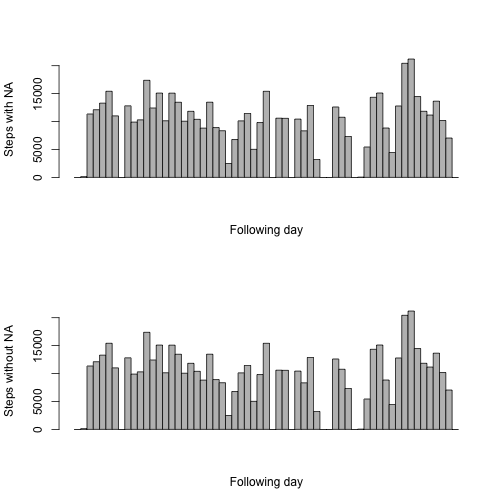
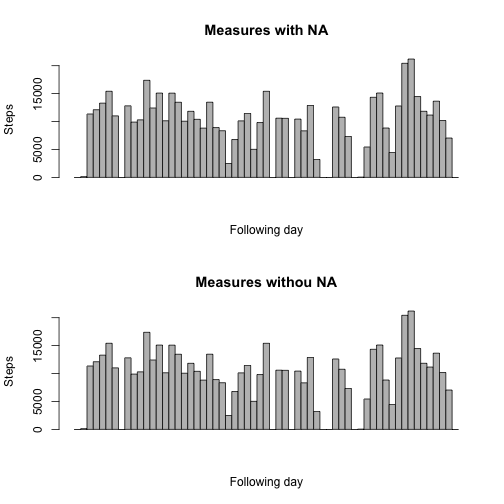
fixed errors

diff --git a/PA1_template.md b/PA1_template.md
@@ -188,36 +188,21 @@ And in total:
 
 
 ```r
-mean_tot <- mean(sum_act[2])
-```
-
-```
-## Warning in mean.default(sum_act[2]): argument is not numeric or logical:
-## returning NA
-```
-
-```r
+mean_tot <- mean(sum_act[,2])
 mean_tot
 ```
 
 ```
-## [1] NA
+## [1] 9354.23
 ```
 
 ```r
-median_tot <= median(sum_act[2])
-```
-
-```
-## Error in eval(expr, envir, enclos): object 'median_tot' not found
-```
-
-```r
+median_tot <- median(sum_act[,2])
 median_tot
 ```
 
 ```
-## Error in eval(expr, envir, enclos): object 'median_tot' not found
+## [1] 10395
 ```
 
 ## What is the average daily activity pattern?
@@ -325,8 +310,8 @@ Which is, in compirison with the old one:
 
 ```r
 par(mfcol=c(2,1))
-barplot(sum_act$`Total number of steps`, space=0, axisnames = TRUE, ylab="Steps with NA", xlab = "Following day")
-barplot(sum_new$`Total number of steps`, space=0, axisnames = TRUE, ylab="Steps without NA", xlab = "Following day")
+barplot(sum_act$`Total number of steps`, space=0, axisnames = TRUE, ylab="Steps", xlab = "Following day",main="Measures with NA")
+barplot(sum_new$`Total number of steps`, space=0, axisnames = TRUE, ylab="Steps", xlab = "Following day",main="Measures withou NA")
 ```
 
 ![plot of chunk plots](figure/plots-1.png)
@@ -479,36 +464,21 @@ And in total:
 
 
 ```r
-mean_tot_new <- mean(sum_new[2])
-```
-
-```
-## Warning in mean.default(sum_new[2]): argument is not numeric or logical:
-## returning NA
-```
-
-```r
+mean_tot_new <- mean(sum_new[,2])
 mean_tot_new
 ```
 
 ```
-## [1] NA
+## [1] 9354.23
 ```
 
 ```r
-median_tot <- median(sum_new[2])
-```
-
-```
-## Error in median.default(sum_new[2]): need numeric data
-```
-
-```r
+median_tot_new <- median(sum_new[,2])
 median_tot_new
 ```
 
 ```
-## Error in eval(expr, envir, enclos): object 'median_tot_new' not found
+## [1] 10395
 ```
 
 ## Are there differences in activity patterns between weekdays and weekends?
